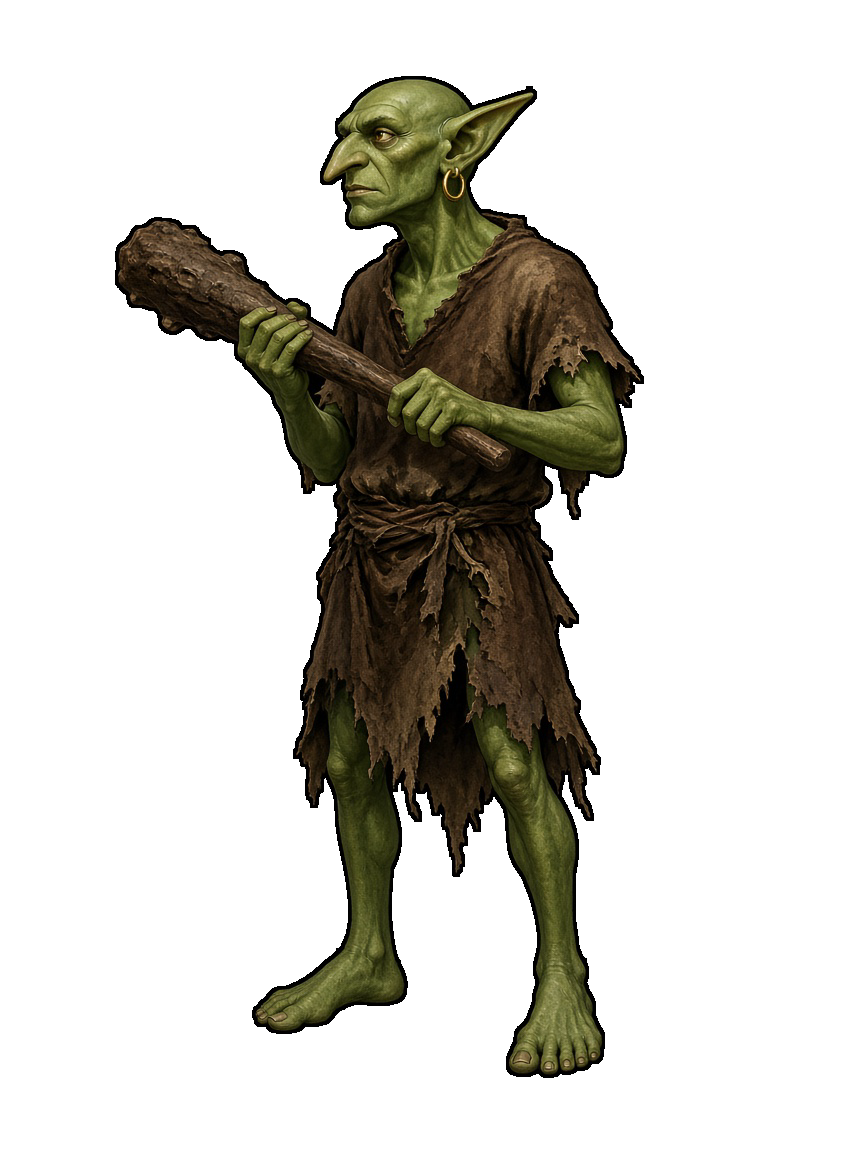
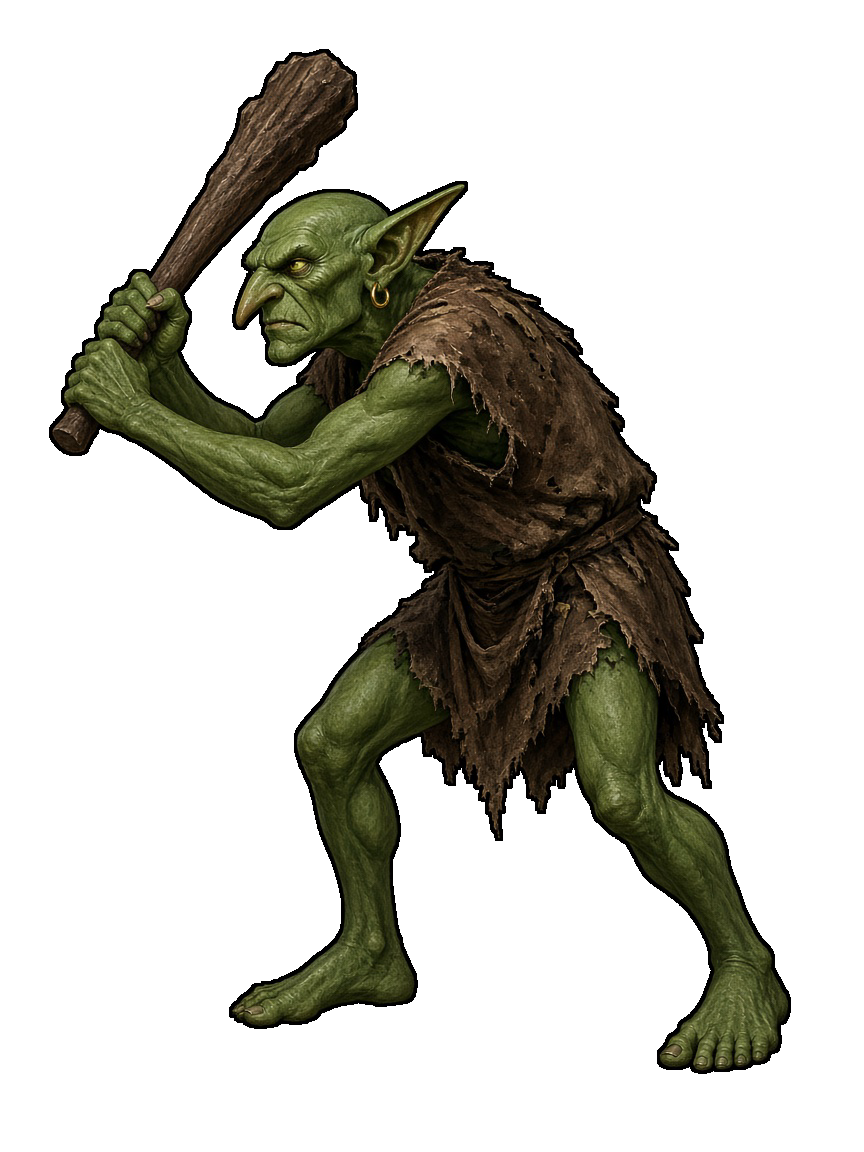
ゴブリンを戦闘態勢にする。

diff --git a/index.html b/index.html
@@ -9833,7 +9833,7 @@
       },
       {
         name: "ゴブリン",
-        image: "enemy-goblin.png?v=15",
+        image: "enemy-goblin.png?v=16",
         tier: 1,
         rank: "雑魚",
         stature: "small",
@@ -11015,7 +11015,7 @@
     // 絵の余白。見える体の高さを自分に合わせるときに使う。
     const FOE_INK = {
       "enemy-slime.png": { w: 864, h: 1152, top: 88, bottom: 64, left: 29, right: 857 },
-      "enemy-goblin.png": { w: 864, h: 1152, top: 76, bottom: 74, left: 115, right: 643 },
+      "enemy-goblin.png": { w: 864, h: 1152, top: 49, bottom: 78, left: 49, right: 790 },
       "enemy-kobold.png": { w: 864, h: 1152, top: 27, bottom: 15, left: 144, right: 704 },
       "enemy-minotaur.png": { w: 864, h: 1152, top: 50, bottom: 75, left: 67, right: 853 },
       "enemy-dragon.png": { w: 864, h: 1152, top: 120, bottom: 150, left: 27, right: 863 },
@@ -16486,7 +16486,7 @@
             <h3>敵</h3>
             <div class="ref-grid">
               ${sheetFig("enemy-slime.png?v=9", "スライム", "enemy-ref")}
-              ${sheetFig("enemy-goblin.png?v=15", "ゴブリン", "enemy-ref")}
+              ${sheetFig("enemy-goblin.png?v=16", "ゴブリン", "enemy-ref")}
               ${sheetFig("enemy-kobold.png?v=6", "コボルド", "enemy-ref")}
               ${sheetFig("enemy-troll.png?v=7", "トロール", "enemy-ref")}
               ${sheetFig("enemy-minotaur.png?v=11", "ミノタウロス", "enemy-ref")}
